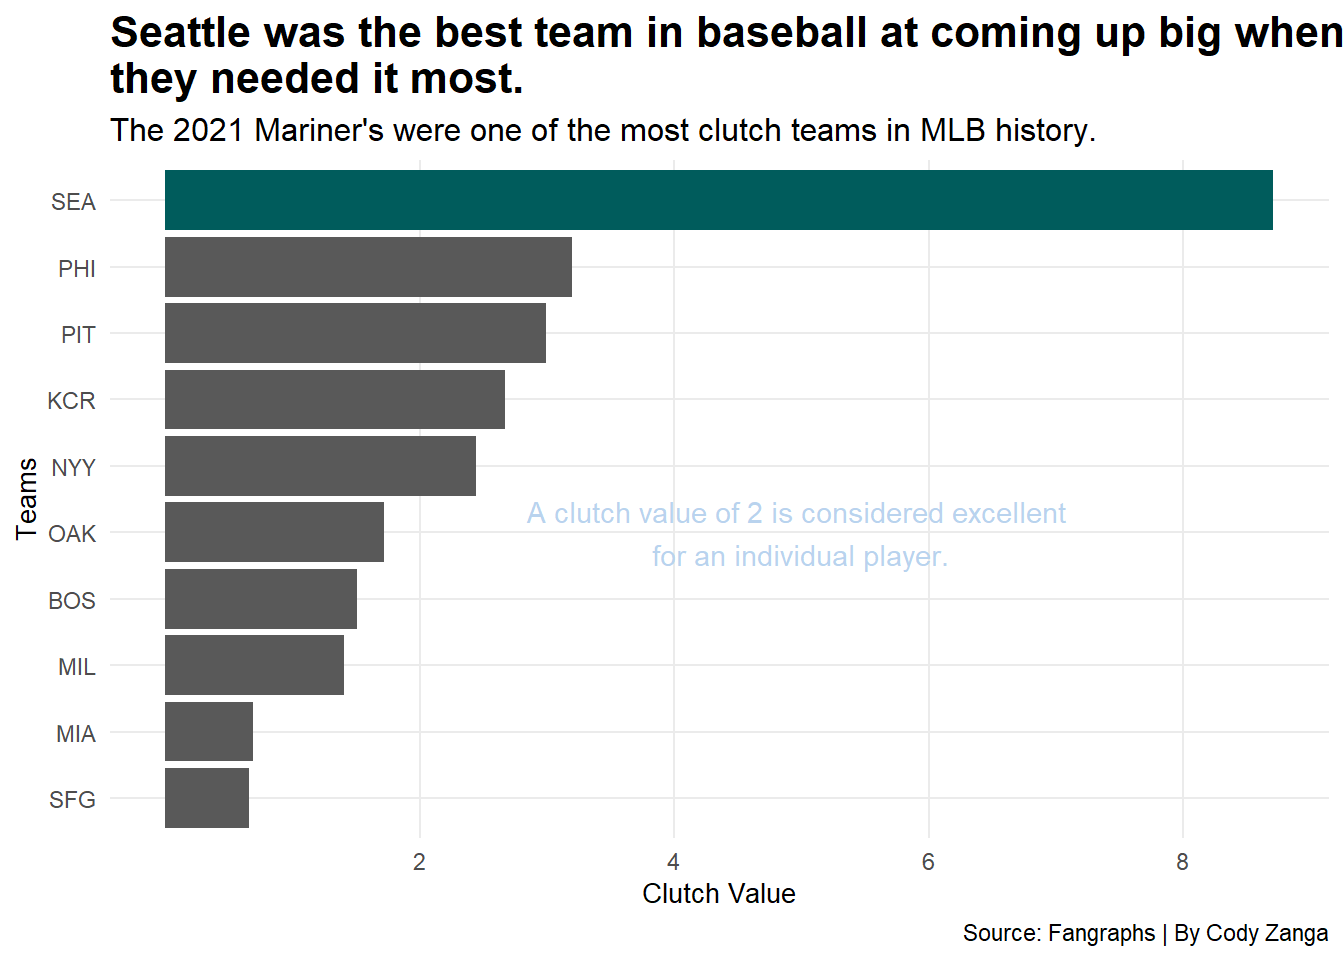
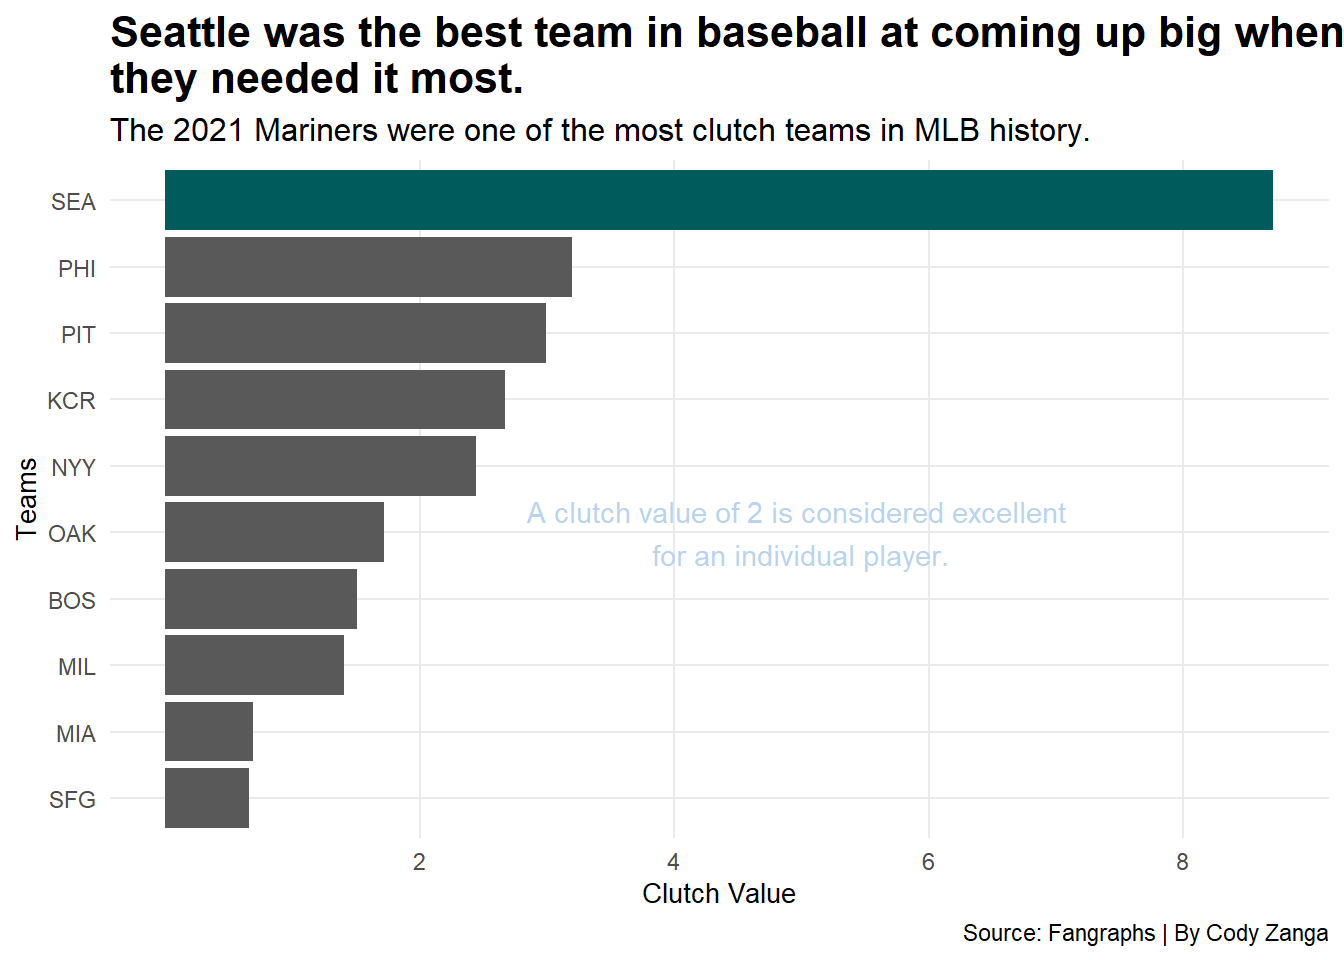
Grammar Fix
Fixed grammar errors.

Changed region(s): [[0.25, 0.125, 0.8125, 0.1562]]

diff --git a/2022/03/24/mariners/index.html b/2022/03/24/mariners/index.html
@@ -70,18 +70,18 @@
       
 
 
-<p>Fans of the Seattle Mariners have had to face more consistent ineptitude than almost any other professional team in American sports. For a team that has been around since 1977 to only have four playoff appearances is unacceptable. Currently, the last playoff appearance for the Mariner’s was in 2001, which was 21-years-ago. With that said, the Mariner’s are the proud owners of the longest playoff drought in American sports, but last season there was a glimmer of hope.</p>
+<p>Fans of the Seattle Mariners have had to face more consistent ineptitude than almost any other professional team in American sports. For a team that has been around since 1977 to only have four playoff appearances is unacceptable. Currently, the last playoff appearance for the Mariners was in 2001, which was 21-years-ago. With that said, the Mariners are the proud owners of the longest playoff drought in American sports, but last season there was a glimmer of hope.</p>
 <p>Somehow, someway the Mariners clawed their way to an improbable 90-win season. Was this just a miracle or does this point to potential future success? How does a team that ranked between the middle and bottom of most important statistics manage to find their way to 90 wins?</p>
 <p>Well there’s a couple ways, first you have to take advantage of your potential scoring opportunities and second you have to avoid giving up the lead once you grabbed a hold of it.</p>
-<p>The Mariner’s weren’t great at many things last year, but the one thing they were good at was getting saves. MLB defines saves as a relief pitcher preserving his team’s lead by entering a game with a lead of no more than three runs and pitches at least one inning, by entering the game with the tying run in the on-deck circle, at the plate or on the base paths, or pitches as least three innings. Keep in mind that in all these situation the team must win the game.</p>
+<p>The Mariners weren’t great at many things last year, but the one thing they were good at was getting saves. MLB defines saves as a relief pitcher preserving his team’s lead by entering a game with a lead of no more than three runs and pitches at least one inning, by entering the game with the tying run in the on-deck circle, at the plate or on the base paths, or pitches as least three innings. Keep in mind that in all these situations the team must win the game.</p>
 <p>Seattle had 51 saves last year, which was good for 3rd in the MLB.</p>
-<p>Using data from Baseball Reference and Fangraphs, we’ll take a look at how the Mariner’s were able to beat the odds and far outperform their expected win total.</p>
-<div id="dvgnxpkevh" style="overflow-x:auto;overflow-y:auto;width:auto;height:auto;">
+<p>Using data from Baseball Reference and Fangraphs, we’ll take a look at how the Mariners were able to beat the odds and far outperform their expected win total.</p>
+<div id="optisvgiqj" style="overflow-x:auto;overflow-y:auto;width:auto;height:auto;">
 <style>html {
   font-family: -apple-system, BlinkMacSystemFont, 'Segoe UI', Roboto, Oxygen, Ubuntu, Cantarell, 'Helvetica Neue', 'Fira Sans', 'Droid Sans', Arial, sans-serif;
 }
 
-#dvgnxpkevh .gt_table {
+#optisvgiqj .gt_table {
   display: table;
   border-collapse: collapse;
   margin-left: auto;
@@ -106,7 +106,7 @@
   border-left-color: #D3D3D3;
 }
 
-#dvgnxpkevh .gt_heading {
+#optisvgiqj .gt_heading {
   background-color: #FFFFFF;
   text-align: center;
   border-bottom-color: #FFFFFF;
@@ -118,7 +118,7 @@
   border-right-color: #D3D3D3;
 }
 
-#dvgnxpkevh .gt_title {
+#optisvgiqj .gt_title {
   color: #333333;
   font-size: 125%;
   font-weight: initial;
@@ -130,7 +130,7 @@
   border-bottom-width: 0;
 }
 
-#dvgnxpkevh .gt_subtitle {
+#optisvgiqj .gt_subtitle {
   color: #333333;
   font-size: 85%;
   font-weight: initial;
@@ -142,13 +142,13 @@
   border-top-width: 0;
 }
 
-#dvgnxpkevh .gt_bottom_border {
+#optisvgiqj .gt_bottom_border {
   border-bottom-style: none;
   border-bottom-width: 2px;
   border-bottom-color: #D3D3D3;
 }
 
-#dvgnxpkevh .gt_col_headings {
+#optisvgiqj .gt_col_headings {
   border-top-style: none;
   border-top-width: 2px;
   border-top-color: #D3D3D3;
@@ -163,7 +163,7 @@
   border-right-color: #D3D3D3;
 }
 
-#dvgnxpkevh .gt_col_heading {
+#optisvgiqj .gt_col_heading {
   color: #333333;
   background-color: #FFFFFF;
   font-size: 100%;
@@ -183,7 +183,7 @@
   overflow-x: hidden;
 }
 
-#dvgnxpkevh .gt_column_spanner_outer {
+#optisvgiqj .gt_column_spanner_outer {
   color: #333333;
   background-color: #FFFFFF;
   font-size: 100%;
@@ -195,15 +195,15 @@
   padding-right: 4px;
 }
 
-#dvgnxpkevh .gt_column_spanner_outer:first-child {
+#optisvgiqj .gt_column_spanner_outer:first-child {
   padding-left: 0;
 }
 
-#dvgnxpkevh .gt_column_spanner_outer:last-child {
+#optisvgiqj .gt_column_spanner_outer:last-child {
   padding-right: 0;
 }
 
-#dvgnxpkevh .gt_column_spanner {
+#optisvgiqj .gt_column_spanner {
   border-bottom-style: none;
   border-bottom-width: 2px;
   border-bottom-color: #D3D3D3;
@@ -215,7 +215,7 @@
   width: 100%;
 }
 
-#dvgnxpkevh .gt_group_heading {
+#optisvgiqj .gt_group_heading {
   padding-top: 8px;
   padding-bottom: 8px;
   padding-left: 5px;
@@ -240,7 +240,7 @@
   vertical-align: middle;
 }
 
-#dvgnxpkevh .gt_empty_group_heading {
+#optisvgiqj .gt_empty_group_heading {
   padding: 0.5px;
   color: #333333;
   background-color: #FFFFFF;
@@ -255,15 +255,15 @@
   vertical-align: middle;
 }
 
-#dvgnxpkevh .gt_from_md > :first-child {
+#optisvgiqj .gt_from_md > :first-child {
   margin-top: 0;
 }
 
-#dvgnxpkevh .gt_from_md > :last-child {
+#optisvgiqj .gt_from_md > :last-child {
   margin-bottom: 0;
 }
 
-#dvgnxpkevh .gt_row {
+#optisvgiqj .gt_row {
   padding-top: 8px;
   padding-bottom: 8px;
   padding-left: 5px;
@@ -282,7 +282,7 @@
   overflow-x: hidden;
 }
 
-#dvgnxpkevh .gt_stub {
+#optisvgiqj .gt_stub {
   color: #333333;
   background-color: #FFFFFF;
   font-size: 100%;
@@ -295,7 +295,7 @@
   padding-right: 5px;
 }
 
-#dvgnxpkevh .gt_stub_row_group {
+#optisvgiqj .gt_stub_row_group {
   color: #333333;
   background-color: #FFFFFF;
   font-size: 100%;
@@ -309,11 +309,11 @@
   vertical-align: top;
 }
 
-#dvgnxpkevh .gt_row_group_first td {
+#optisvgiqj .gt_row_group_first td {
   border-top-width: 2px;
 }
 
-#dvgnxpkevh .gt_summary_row {
+#optisvgiqj .gt_summary_row {
   color: #333333;
   background-color: #FFFFFF;
   text-transform: inherit;
@@ -323,16 +323,16 @@
   padding-right: 5px;
 }
 
-#dvgnxpkevh .gt_first_summary_row {
+#optisvgiqj .gt_first_summary_row {
   border-top-style: none;
   border-top-color: #D3D3D3;
 }
 
-#dvgnxpkevh .gt_first_summary_row.thick {
+#optisvgiqj .gt_first_summary_row.thick {
   border-top-width: 2px;
 }
 
-#dvgnxpkevh .gt_last_summary_row {
+#optisvgiqj .gt_last_summary_row {
   padding-top: 8px;
   padding-bottom: 8px;
   padding-left: 5px;
@@ -342,7 +342,7 @@
   border-bottom-color: #D3D3D3;
 }
 
-#dvgnxpkevh .gt_grand_summary_row {
+#optisvgiqj .gt_grand_summary_row {
   color: #333333;
   background-color: #FFFFFF;
   text-transform: inherit;
@@ -352,7 +352,7 @@
   padding-right: 5px;
 }
 
-#dvgnxpkevh .gt_first_grand_summary_row {
+#optisvgiqj .gt_first_grand_summary_row {
   padding-top: 8px;
   padding-bottom: 8px;
   padding-left: 5px;
@@ -362,11 +362,11 @@
   border-top-color: #D3D3D3;
 }
 
-#dvgnxpkevh .gt_striped {
+#optisvgiqj .gt_striped {
   background-color: rgba(128, 128, 128, 0.05);
 }
 
-#dvgnxpkevh .gt_table_body {
+#optisvgiqj .gt_table_body {
   border-top-style: none;
   border-top-width: 2px;
   border-top-color: #D3D3D3;
@@ -375,7 +375,7 @@
   border-bottom-color: #D3D3D3;
 }
 
-#dvgnxpkevh .gt_footnotes {
+#optisvgiqj .gt_footnotes {
   color: #333333;
   background-color: #FFFFFF;
   border-bottom-style: none;
@@ -389,7 +389,7 @@
   border-right-color: #D3D3D3;
 }
 
-#dvgnxpkevh .gt_footnote {
+#optisvgiqj .gt_footnote {
   margin: 0px;
   font-size: 90%;
   padding-left: 4px;
@@ -398,7 +398,7 @@
   padding-right: 5px;
 }
 
-#dvgnxpkevh .gt_sourcenotes {
+#optisvgiqj .gt_sourcenotes {
   color: #333333;
   background-color: #FFFFFF;
   border-bottom-style: none;
@@ -412,7 +412,7 @@
   border-right-color: #D3D3D3;
 }
 
-#dvgnxpkevh .gt_sourcenote {
+#optisvgiqj .gt_sourcenote {
   font-size: 90%;
   padding-top: 4px;
   padding-bottom: 4px;
@@ -420,60 +420,60 @@
   padding-right: 5px;
 }
 
-#dvgnxpkevh .gt_left {
+#optisvgiqj .gt_left {
   text-align: left;
 }
 
-#dvgnxpkevh .gt_center {
+#optisvgiqj .gt_center {
   text-align: center;
 }
 
-#dvgnxpkevh .gt_right {
+#optisvgiqj .gt_right {
   text-align: right;
   font-variant-numeric: tabular-nums;
 }
 
-#dvgnxpkevh .gt_font_normal {
+#optisvgiqj .gt_font_normal {
   font-weight: normal;
 }
 
-#dvgnxpkevh .gt_font_bold {
+#optisvgiqj .gt_font_bold {
   font-weight: bold;
 }
 
-#dvgnxpkevh .gt_font_italic {
+#optisvgiqj .gt_font_italic {
   font-style: italic;
 }
 
-#dvgnxpkevh .gt_super {
+#optisvgiqj .gt_super {
   font-size: 65%;
 }
 
-#dvgnxpkevh .gt_footnote_marks {
+#optisvgiqj .gt_footnote_marks {
   font-style: italic;
   font-weight: normal;
   font-size: 75%;
   vertical-align: 0.4em;
 }
 
-#dvgnxpkevh .gt_asterisk {
+#optisvgiqj .gt_asterisk {
   font-size: 100%;
   vertical-align: 0;
 }
 
-#dvgnxpkevh .gt_slash_mark {
+#optisvgiqj .gt_slash_mark {
   font-size: 0.7em;
   line-height: 0.7em;
   vertical-align: 0.15em;
 }
 
-#dvgnxpkevh .gt_fraction_numerator {
+#optisvgiqj .gt_fraction_numerator {
   font-size: 0.6em;
   line-height: 0.6em;
   vertical-align: 0.45em;
 }
 
-#dvgnxpkevh .gt_fraction_denominator {
+#optisvgiqj .gt_fraction_denominator {
   font-size: 0.6em;
   line-height: 0.6em;
   vertical-align: -0.05em;
@@ -555,17 +555,17 @@
 </table>
 </div>
 <p>Here you can see how Seattle stacked up to some of the best teams in baseball last year. You might notice that the Mariner’s have the worst run differential out of all these teams, yet somehow they nearly had the same win total as the Toronto Blue Jays.</p>
-<p>The Atlanta Braves, the World Series Champs had a somewhat inverted result compared to Seattle. They won fewer games, but their run differential would have you believe they’re a better team than their record indicates.</p>
+<p>The Atlanta Braves, the World Series champs had a somewhat inverted result compared to Seattle. They won fewer games, but their run differential would have you believe they’re a better team than their record indicates.</p>
 <p><img src="http://codyzanga.github.io/2022/03/24/mariners/index_files/figure-html/unnamed-chunk-10-1.png" width="672" /></p>
 <p>There’s a strong correlation between run differential and winning games. Seattle overachieved more than any other team in the MLB last year.</p>
-<p>When you look at this from the standpoint that the Mariner’s should have only won 76 games last year, suddenly you don’t feel as good about them bursting onto the playoff scene this year.</p>
+<p>When you look at this from the standpoint that the Mariners should have only won 76 games last year, suddenly you don’t feel as good about them bursting onto the playoff scene this year.</p>
 <p><img src="http://codyzanga.github.io/2022/03/24/mariners/index_files/figure-html/unnamed-chunk-14-1.png" width="672" /></p>
-<p>I know the term clutch value is a little bit vague. David Appelman of Fangraphs defines clutch as “how much better or worse a player does in high leverage situations than he would have done in a context neutral environment.”A high leverage situation would be a specific point in a game that could cause a significant shift in the outcome of that game, such as getting a base hit with the bases loaded and two outs when your team is down one run.</p>
-<p>In these big time situations where the Mariner’s had to have something go their way, more often than not they were able to make magic happen.</p>
+<p>I know the term clutch value is a little bit vague. David Appelman of Fangraphs defines clutch as “how much better or worse a player does in high leverage situations than he would have done in a context neutral environment.” A high leverage situation would be a specific point in a game that could cause a significant shift in the outcome of that game, such as getting a base hit with the bases loaded and two outs when your team is down one run.</p>
+<p>In these big time situations where the Mariners had to have something go their way, more often than not they were able to make magic happen.</p>
 <p><img src="http://codyzanga.github.io/2022/03/24/mariners/index_files/figure-html/unnamed-chunk-16-1.png" width="672" /></p>
-<p>You might look at this and think to yourself that Seattle is kind of off in their own little area and you would be correct. By the very nature of saves you’re typically winning games by small margins. Over half of the Mariner’s wins came in this fashion, so they were winning a lot of close games.</p>
-<p>How did the Mariner’s win 90 games with a -51 run differential? Well they won a lot of games in close fashion and came up with clutch plays when they need them. When they were losing, they were losing big. That’s how you find your way to this unlikely result.</p>
-<p>Despite the data making it look more as if the Mariner’s got lucky last year, especially with their clutch value, hopefully they will find a way to get into the playoffs soon. For fans of the team and baseball fans in general it would be nice to see them finally make it back to the playoffs for the first time since the days of Ichiro Suzuki and Edgar Martinez.</p>
+<p>You might look at this and think to yourself that Seattle is kind of off in their own little area and you would be correct. By the very nature of saves you’re typically winning games by small margins. Over half of the Mariners wins came in this fashion, so they were winning a lot of close games.</p>
+<p>How did the Mariners win 90 games with a -51 run differential? Well they won a lot of games in close fashion and came up with clutch plays when they needed them. When they were losing, they were losing big. That’s how you find your way to this unlikely result.</p>
+<p>Despite the data making it look more as if the Mariners got lucky last year, especially with their clutch value, hopefully they will find a way to get into the playoffs soon. For fans of the team and baseball fans in general it would be nice to see them finally make it back to the playoffs for the first time since the days of Ichiro Suzuki and Edgar Martinez.</p>
 
     </div>
   </article>
